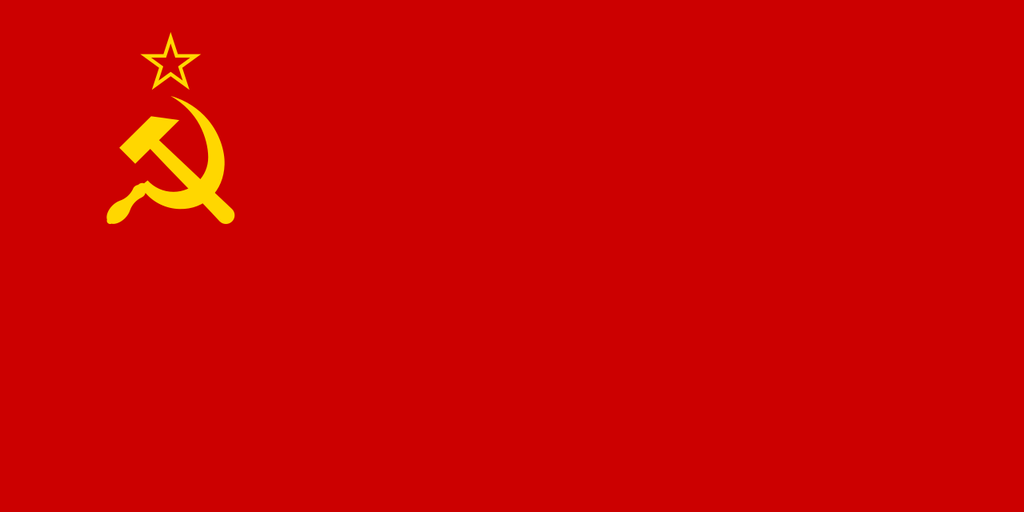
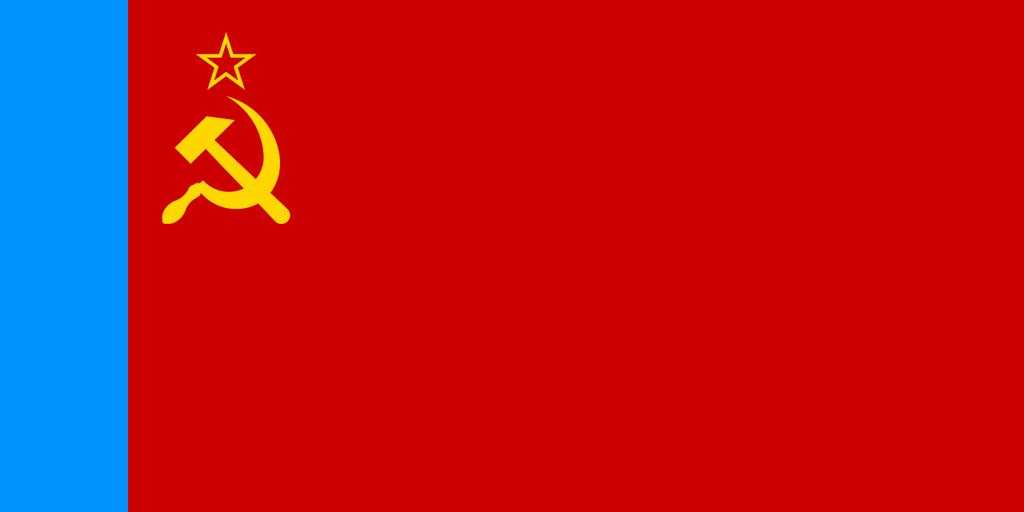
Russia under communism flies the RSFSR, not the Soviet Union
The country's communist flag was the Soviet one - the same picture the formable
Soviet Union already flies, so Russia and a union it had not formed flew the same
banner and proclaiming the USSR changed nothing on the pole.

The flag it should have been was already in the tree, as the Russian culture's
communist flag. This is that picture under the name that outranks it, and the
Soviet banner stays where it belongs.

Changed region(s): [[0.0, 0.0, 0.2812, 1.0]]

diff --git a/game/gfx/CREDITS.md b/game/gfx/CREDITS.md
@@ -442,7 +442,7 @@ else was skipped rather than used.
 | `flag_pyf_absolute_monarchy.png` | [Flag of the Kingdom of Bora Bora (1837-1842).svg](https://commons.wikimedia.org/wiki/File:Flag_of_the_Kingdom_of_Bora_Bora_%281837-1842%29.svg) | Public domain | Ivan Sache |
 | `flag_rou_absolute_monarchy.png` | [Flag of the Kingdom of Romania.png](https://commons.wikimedia.org/wiki/File:Flag_of_the_Kingdom_of_Romania.png) | CC BY-SA 3.0 | Gneisenauu |
 | `flag_rus_absolute_monarchy.png` | [Flag of Russia (1914–1917).svg](https://commons.wikimedia.org/wiki/File:Flag_of_Russia_%281914%E2%80%931917%29.svg) | Public domain | Srg36 |
-| `flag_rus_communism.png` | [Flag of the Soviet Union.svg](https://commons.wikimedia.org/wiki/File:Flag_of_the_Soviet_Union.svg) | Public domain | СССР |
+| `flag_rus_communism.png` | [Flag of the Russian Soviet Federative Socialist Republic (1954–1991).svg](https://commons.wikimedia.org/wiki/File:Flag_of_the_Russian_Soviet_Federative_Socialist_Republic_(1954%E2%80%931991).svg) | Public domain | Pianist |
 | `flag_rus_traditionalism.png` | [Flag of Russia (1914–1917).svg](https://commons.wikimedia.org/wiki/File:Flag_of_Russia_%281914%E2%80%931917%29.svg) | Public domain | Srg36 |
 | `flag_srb_communism.png` | [Flag of Yugoslavia (1946–1992).svg](https://commons.wikimedia.org/wiki/File:Flag_of_Yugoslavia_%281946%E2%80%931992%29.svg) | Public domain | Flag designed by Đorđe Andrejević-Kun [3] SVG coding: Zscout370 |
 | `flag_svk_communism.png` | [Flag of Slovakia (1939–1945).svg](https://commons.wikimedia.org/wiki/File:Flag_of_Slovakia_%281939%E2%80%931945%29.svg) | Public domain | DarkEvil , PhiLiP |
